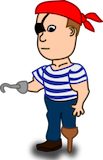
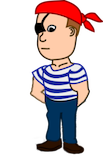
Added comments and text into README file, photoshopped and updated image of the victim to move his hands behind his back

Changed region(s): [[0.2621, 0.5938, 0.8447, 1.0], [0.0, 0.5, 0.466, 0.6562]]

diff --git a/assets/javascript/game.js b/assets/javascript/game.js
@@ -98,6 +98,7 @@ var game = {
         })
     },
 
+    // the startMenuScreen object holds all functions that pertain to the start menu, not the game
     startMenuScreen: {
         initializeStartMenu: function () {
             game.selectScreen(startMenu);
@@ -107,14 +108,16 @@ var game = {
         }
     },
 
+    // the gameScreen object holds all functions that occur in-game
     gameScreen: {
         getPhraseDefHiddenPhrase: function () {
             // returns an array of the original phrase, its definition, and the hidden version of the phrase
             var wordArray = wordList[Math.floor(wordList.length * Math.random())];
             return wordArray.concat(this.hidePhrase(wordArray[0]));
         },
-
+    
         hidePhrase: function (inputPhrase) {
+            // returns the hidden version of the phrase and adds it to defHiddenPhrase and is mutated when the player guesses a letter
             var outputPhrase = "";
             for (let i = 0; i < inputPhrase.length; i++) {
                 if (/[a-z]/i.test(inputPhrase[i])) {
@@ -127,6 +130,7 @@ var game = {
         },
 
         animate: function (time) {
+            // this function creates the constant and unconditional animations of the game which includes the sinusoidal movements of the waves and the ship
             if (lastTime != null) angle += (time = lastTime) * 0.00005;
             lastTime = time;
             topWave.style.top = (Math.sin(angle) * 1.5) + 48 + "vh";
@@ -140,6 +144,7 @@ var game = {
         },
 
         movePlayerForward: function (newPosition) {
+            // this animation moves the victim character forward on the plank and occurs only when the players guesses the wrong letter
             var id = setInterval(frame, 20);
             function frame() {
                 if (playerPosition == newPosition) {
@@ -152,6 +157,7 @@ var game = {
         },
 
         fallOffPlank: function () {
+            // this animation occurs when the player makes ten guesses and loses the game
             var id = setInterval(frame, 20);
             function frame() {
                 if (playerYPosition == 100) {
@@ -237,6 +243,7 @@ var game = {
         },
 
         findAndSwitchLetters: function (letter) {
+            // this function searches the original word for the occurences of the player's input letter
             var pos = 0;
             var j = -1;
             var newString = "";
@@ -251,6 +258,7 @@ var game = {
     }
 };
 
+// function calls and event listener
 game.startMenuScreen.initializeStartMenu();
 document.onkeyup = function (event) {
     if (inputReady) {

diff --git a/index.html b/index.html
@@ -11,6 +11,7 @@
 </head>
 
 <body>
+    <!-- The following div only shows in the beginning of the game -->
     <div id="startMenu">
         <div id="titleBanner">
             <img src="assets/images/darkwood.png" alt="HeaderBG" id="headerbg">
@@ -23,10 +24,12 @@
             <button id="instructionsButton" class="menuButton" onclick="game.startMenuScreen.showInstructions()">Instructions</button>
         </div>
     </div>
-
+    <!-- This is the main application -->
     <div id="gameMasterContainer">
+        <!-- These audio files only play conditionally -->
         <audio src="assets/audio/tomfoolery.mp3" id="tomfooleryMP3" loop></audio>
         <audio src="assets/audio/twelfthStRag.mp3" id="twelfthStRagMP3"></audio>
+        <!-- phraseMeaning div is where the hint is shown -->
         <div id="phraseMeaning"></div>
         <div id="deepBlueSea">
             <div id="pirateShipContainer">
@@ -40,6 +43,7 @@
                     </div>
                 </div>
             </div>
+            <!-- The following divs are where most of the game information is displayed -->
             <div id="gameDisplayContainer">
                 <div id="gameDisplayArea">
                     <div id="wrongLettersDisplay">

diff --git a/README.md b/README.md
@@ -1,1 +1,11 @@
 # Word-Guess-Game
+
+This is a hang-man-like game written in pure HTML, CSS, and JavaScript, created as a project for my DevBootCamp
+
+Hit start, and press any letters on your keyboard to guess the hidden word with the help of the provided hint
+
+Please note of a bug on Google Chrome that sometimes cuts the audio short upon winning the game
+
+Created by Arvin Zojaji
+
+Enjoy!
